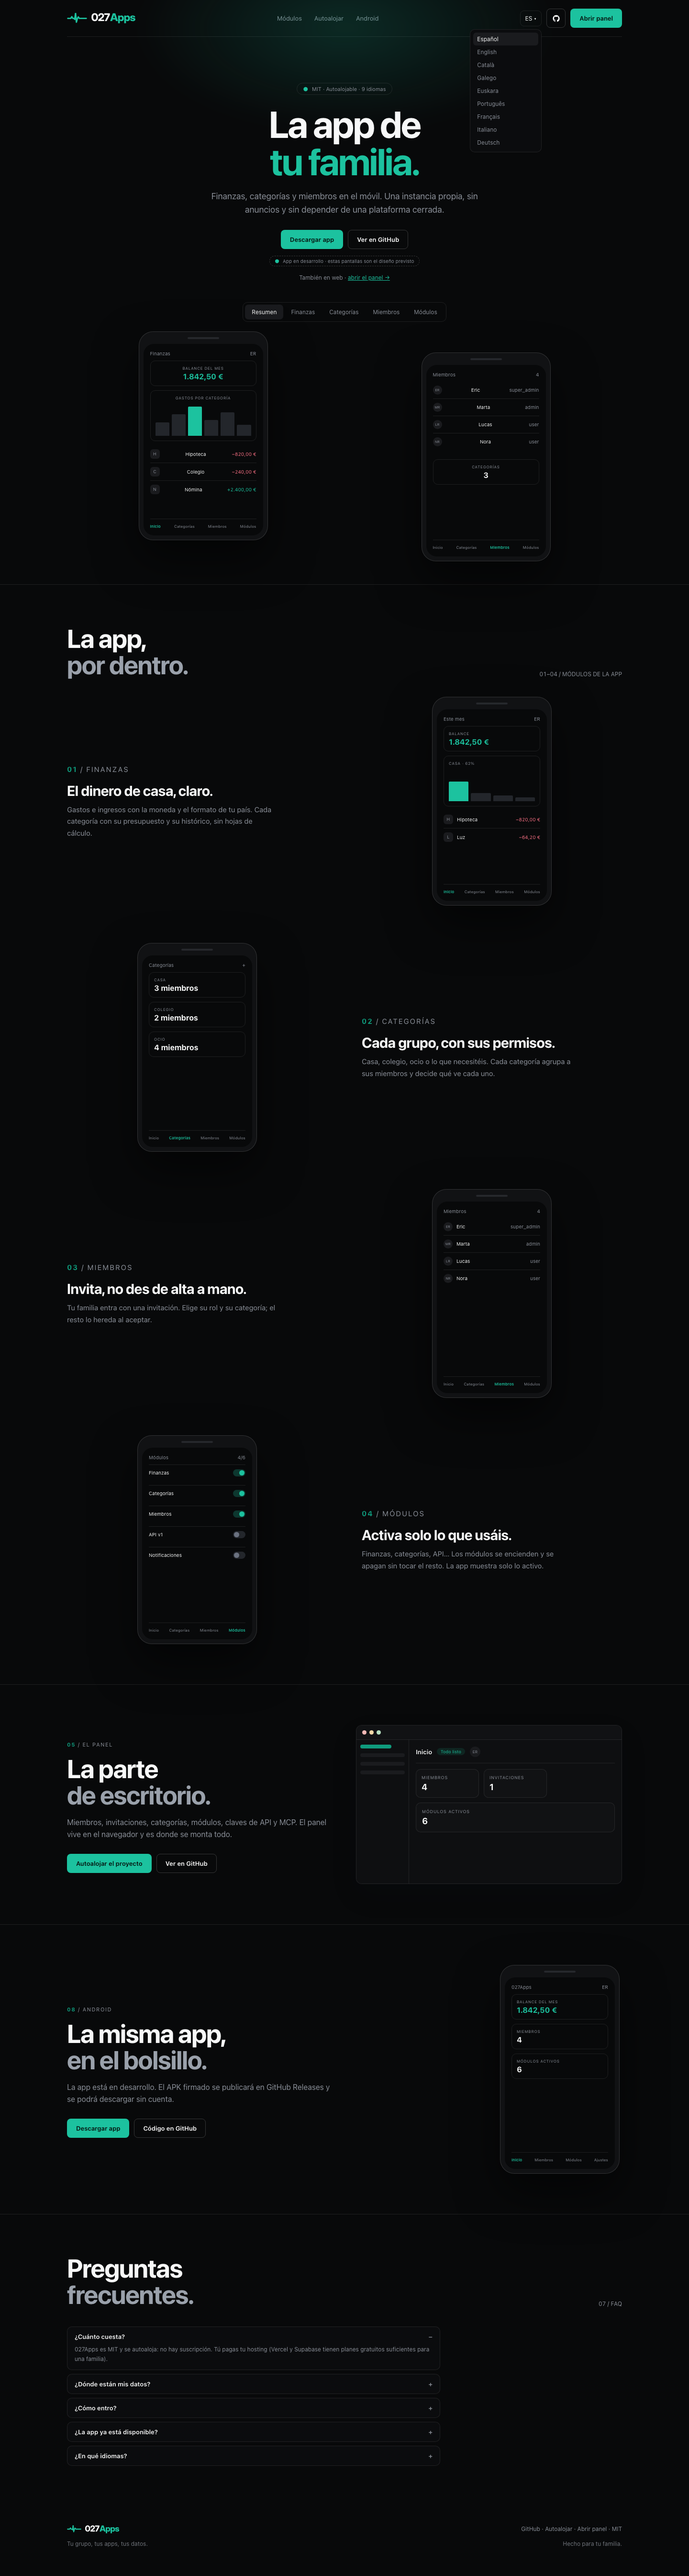
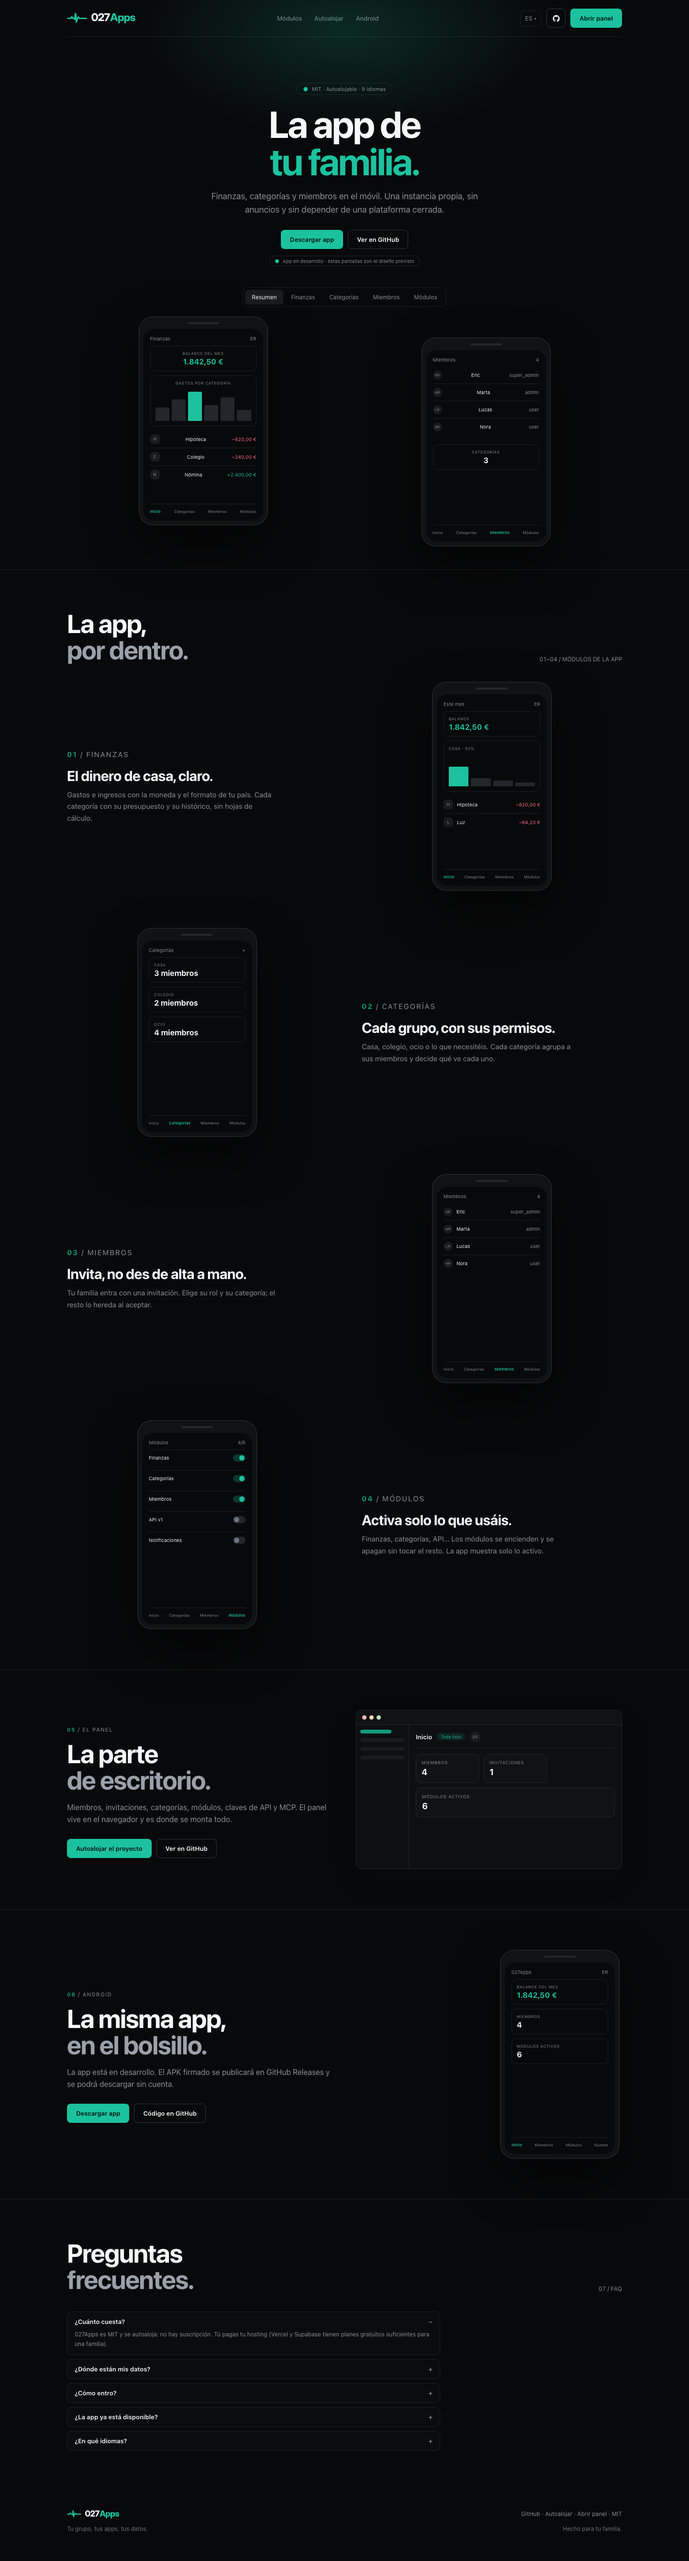
docs(landing): drop the misleading web-panel link from the app hero

diff --git a/docs/mockups/landing/v2-app.html b/docs/mockups/landing/v2-app.html
@@ -55,7 +55,6 @@
           <a class="btn ghost" href="https://github.com/rferic/027apps">Ver en GitHub</a>
         </div>
         <p style="margin-top: 14px"><span class="note-pill"><b>●</b> App en desarrollo · estas pantallas son el diseño previsto</span></p>
-        <p class="sub">También en web · <a href="/login" style="color: #1cc29f">abrir el panel →</a></p>
 
         <div class="tabs">
           <span class="on">Resumen</span>

diff --git a/docs/mockups/landing/README.md b/docs/mockups/landing/README.md
@@ -52,14 +52,15 @@ El copy es ilustrativo; en la implementación pasa por los **9 idiomas**.
 
 Evolución de v2 elegida por el propietario: la app manda, el panel queda como segunda cara.
 
-- `v2-app.html`, `v2-app.png` (app), `v2-app-panel.png` (pestaña Panel) y `v2-app-mobile.png`.
+- `v2-app.html`, `v2-app.png` y `v2-app-mobile.png`.
 - Hero con la app y cuatro módulos con su pantalla y explicación (finanzas, categorías,
   miembros, módulos).
-- Sección «Dos formas de usar 027Apps» con un **switch App / Panel** (contenido estático, sin
-  recarga): el panel explica miembros, invitaciones, categorías, módulos, API v1, MCP, ajustes
-  y estado.
+- Tarjeta «La parte de escritorio» que enlaza a la página del proyecto; el panel no se
+  presenta como una pantalla de la app.
 - Tecnologías, autoalojado, Android, FAQ y pie.
 - Copy ilustrativo en español; la implementación publica **inglés en `/`** y las 8 variantes.
+- El hero no lleva «También en web · abrir el panel»: el panel es administración de escritorio,
+  no una versión web de la app. El acceso queda en la nav.
 - Sin analítica por decisión del propietario.
 
 ### Estado de la app
